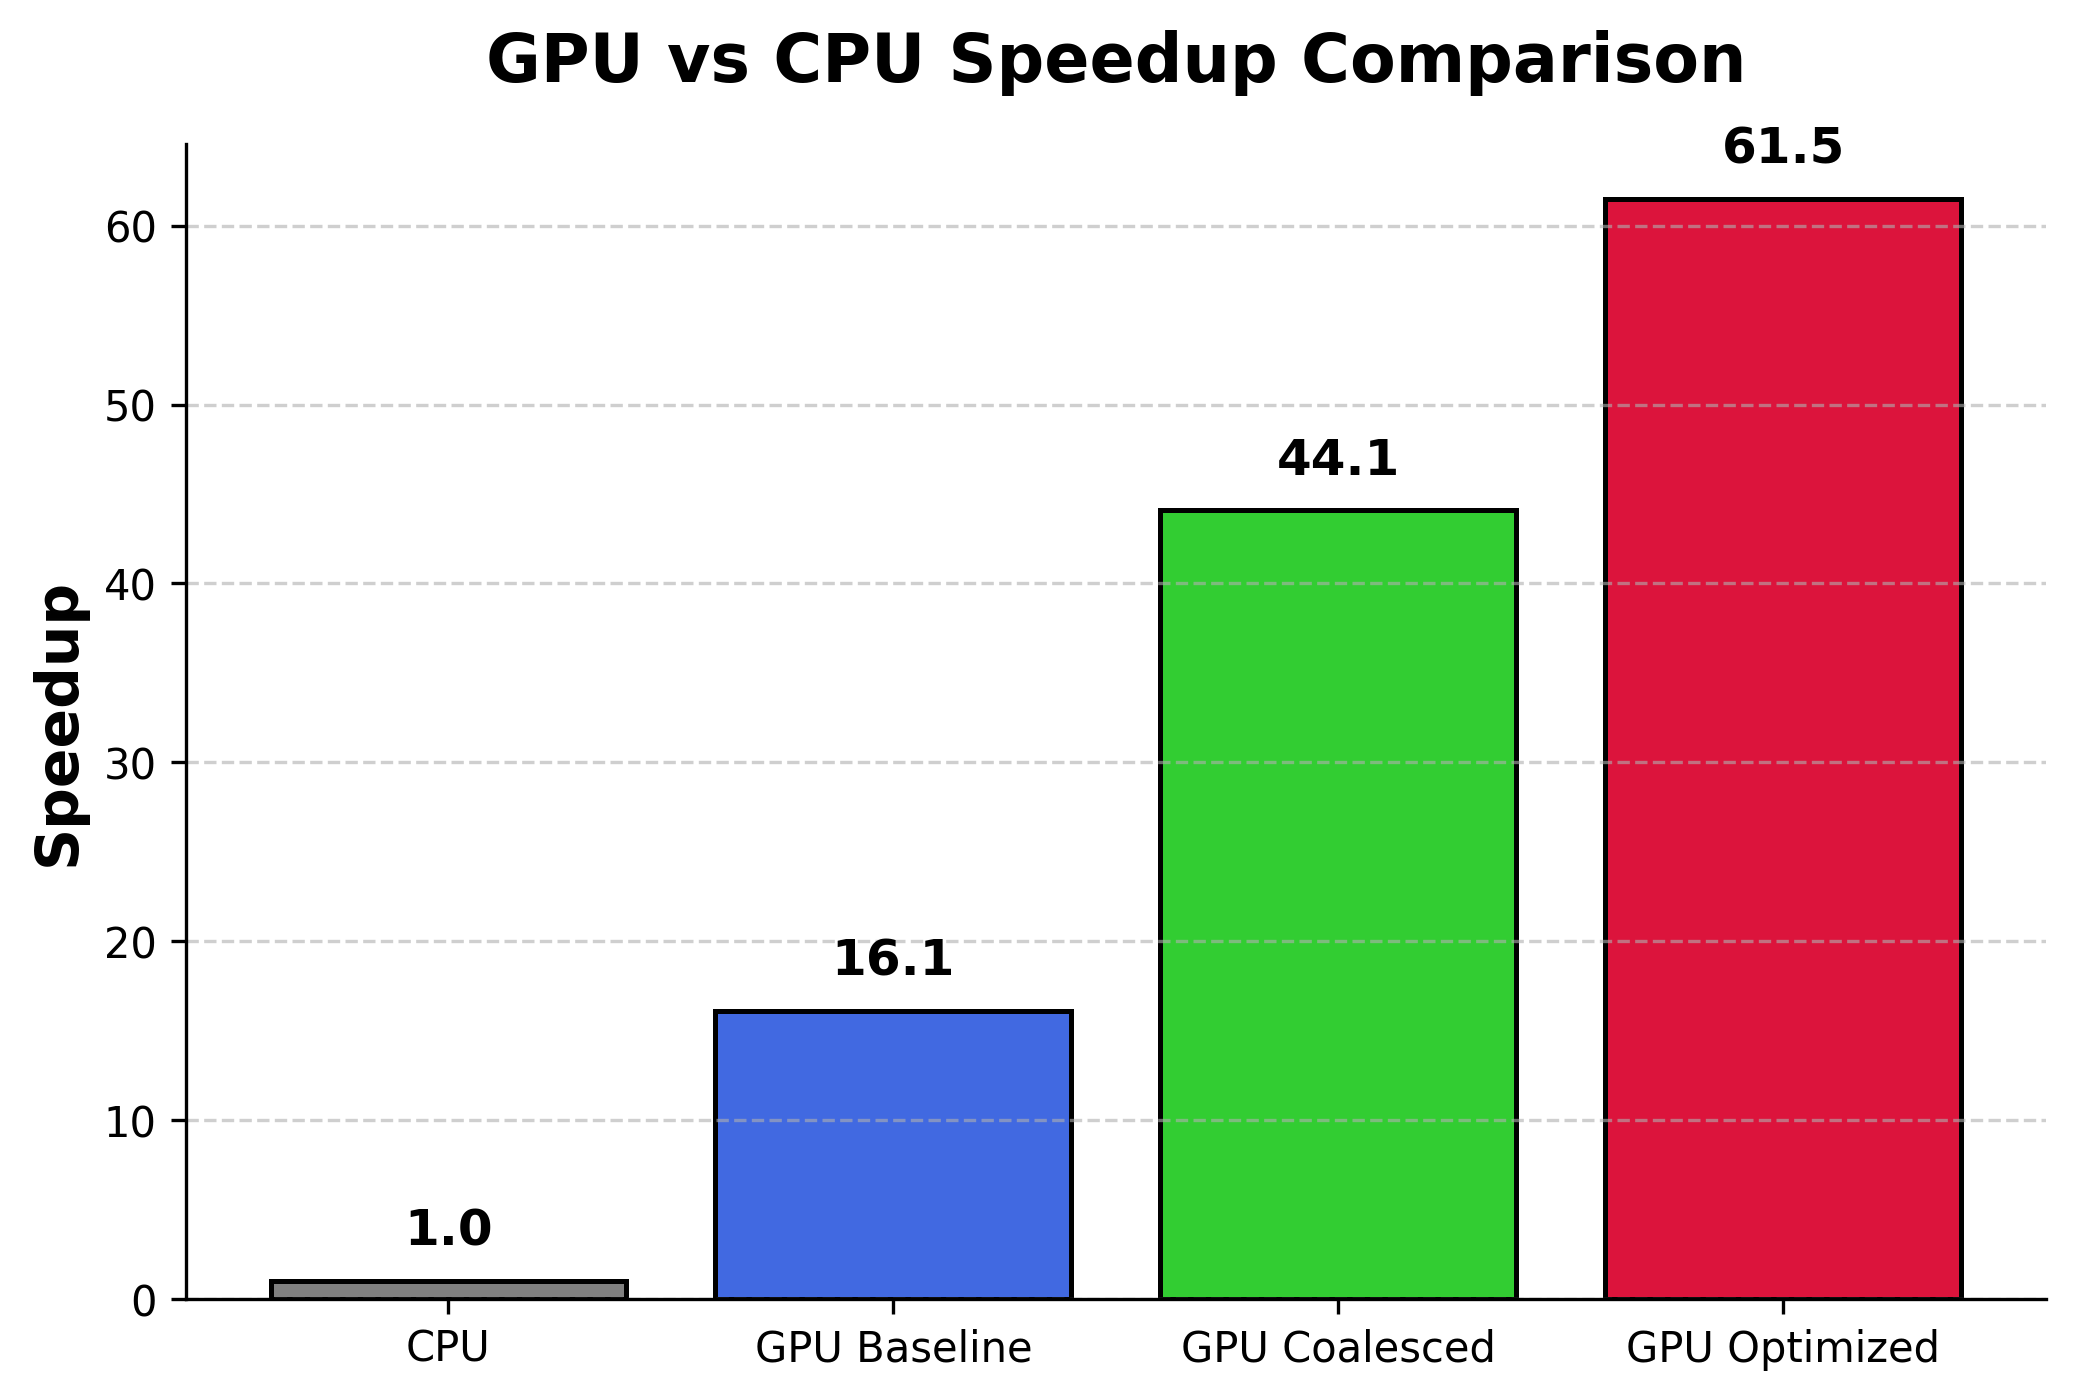
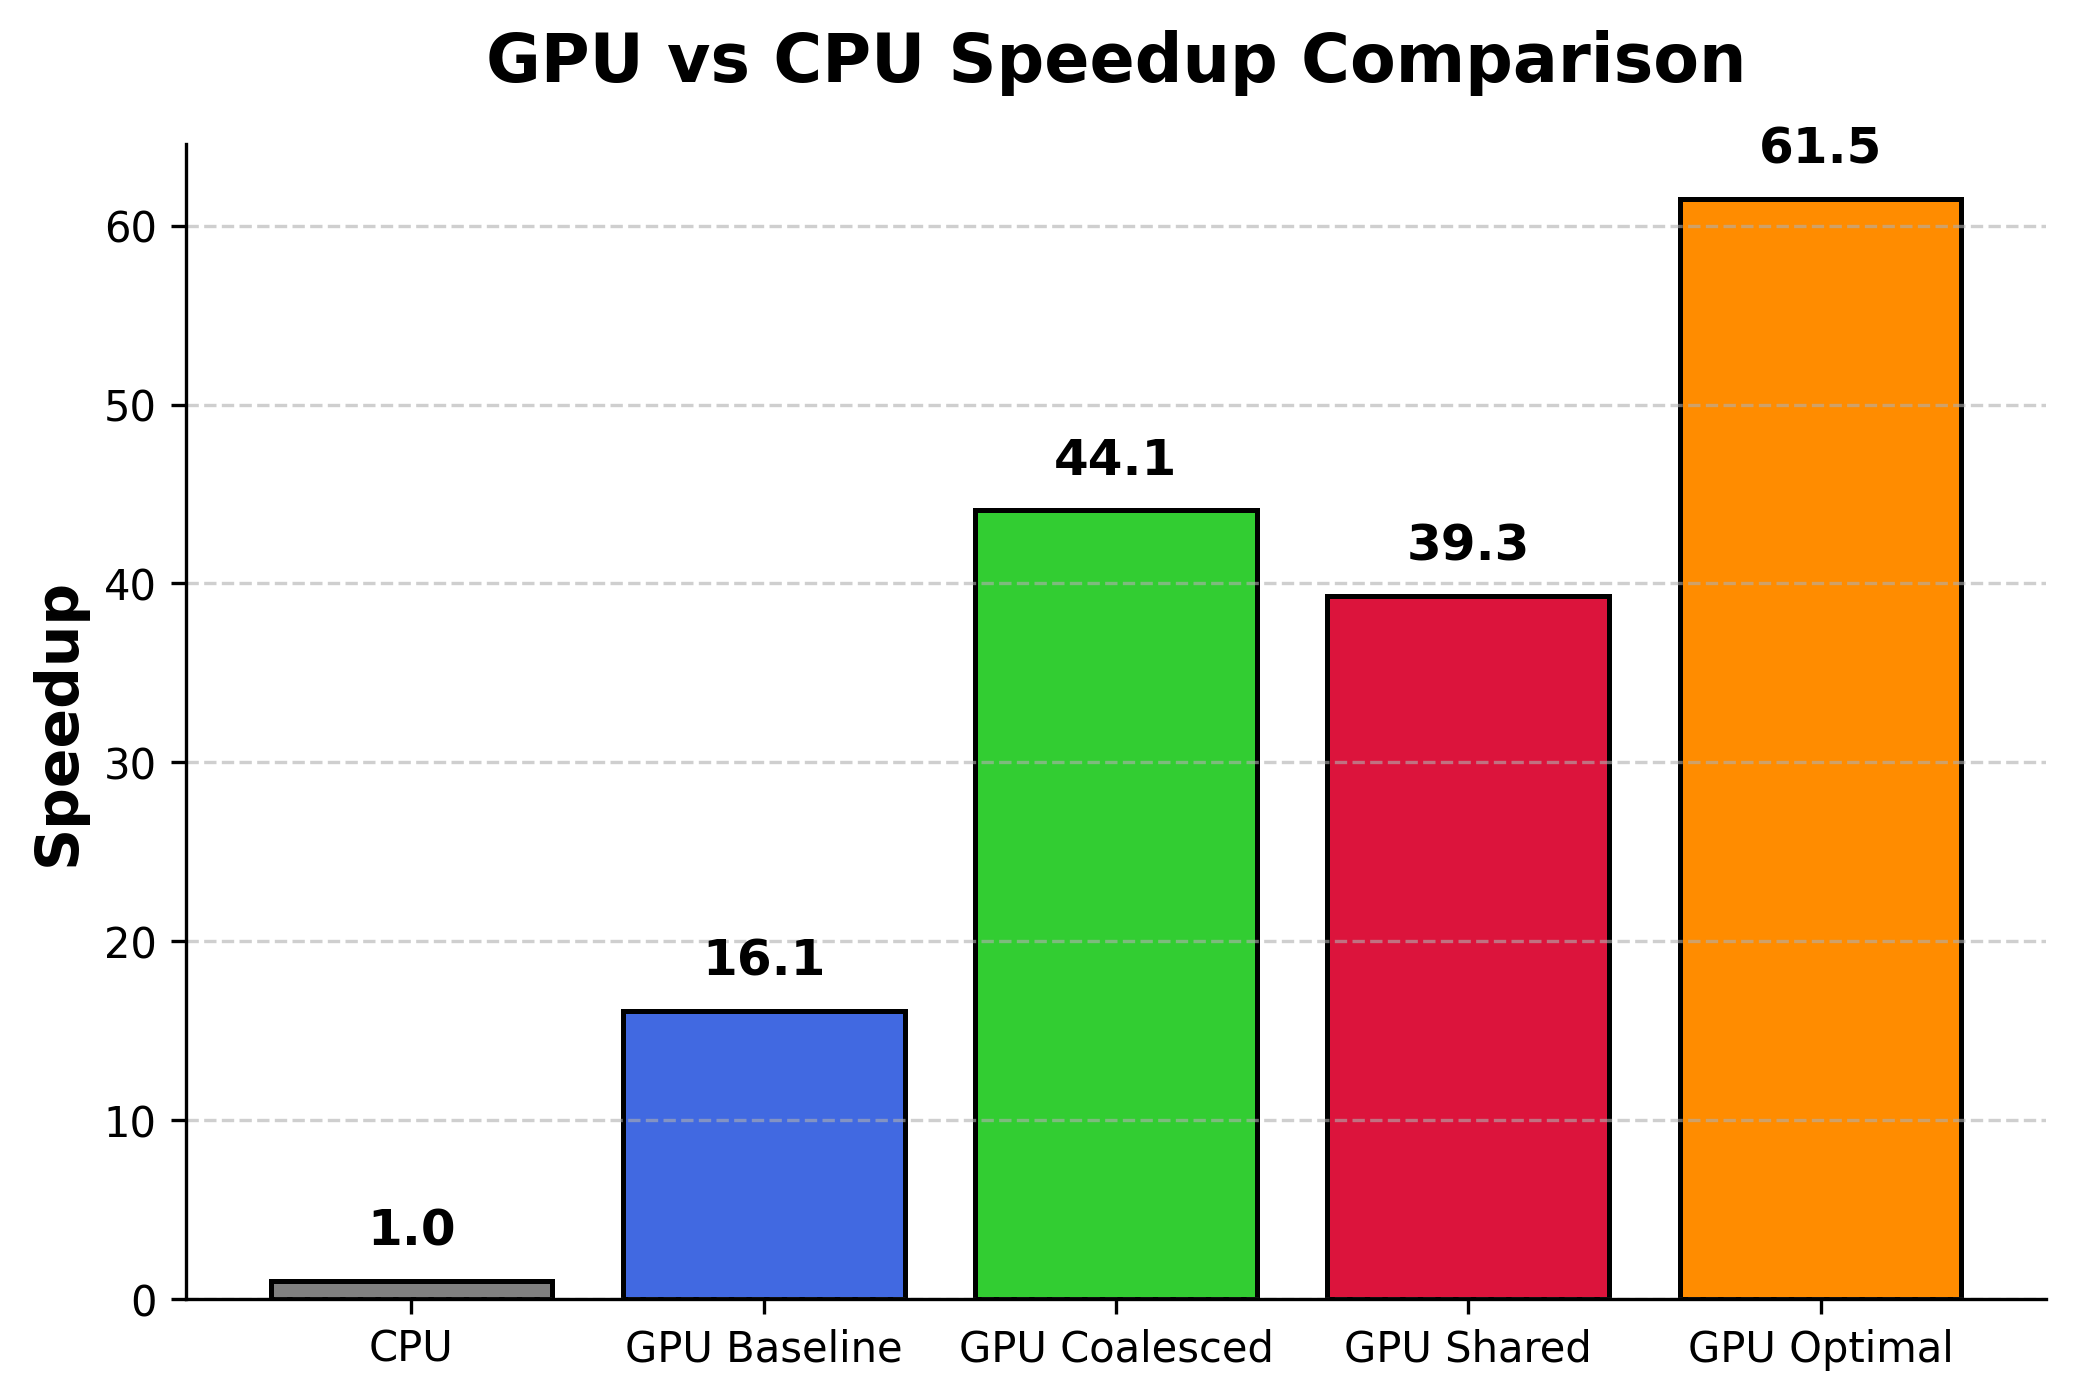
add GPU shared and update readme, GPU baseline, and GPU coalesced

diff --git a/project/src/plot.py b/project/src/plot.py
@@ -1,0 +1,30 @@
+import matplotlib.pyplot as plt
+
+# Sample data: Execution times (speedup over CPU)
+labels = ['CPU', 'GPU Baseline', 'GPU Coalesced', 'GPU Shared', 'GPU Optimal']
+speedup = [1, 16.1, 44.1, 39.3, 61.5]
+colors = ['gray', 'royalblue', 'limegreen', 'crimson', 'darkorange']
+
+# Create figure and axes
+fig, ax = plt.subplots(figsize=(8, 5))
+
+# Create bar plot with rounded edges
+bars = ax.bar(labels, speedup, color=colors, edgecolor='black', linewidth=1.2)
+
+# Labels and title
+ax.set_ylabel('Speedup', fontsize=14, fontweight='bold')
+ax.set_title('GPU vs CPU Speedup Comparison', fontsize=16, fontweight='bold', pad=15)
+
+# Show values on top of bars
+for bar, v in zip(bars, speedup):
+    ax.text(bar.get_x() + bar.get_width() / 2, v + 2, f'{v:.1f}', ha='center', fontsize=12, fontweight='bold', color='black')
+
+# Add grid lines for better readability
+ax.yaxis.grid(True, linestyle='--', alpha=0.6)
+
+# Remove top and right spines for a cleaner look
+ax.spines['top'].set_visible(False)
+ax.spines['right'].set_visible(False)
+
+# Save the figure
+plt.savefig('result.png', dpi=300, bbox_inches='tight')

diff --git a/project/readme.md b/project/readme.md
@@ -21,8 +21,8 @@ This project accelerates the solution by leveraging **GPU parallelism**, optimiz
 A standard DP table is computed bottom-up. GPU parallelization assigns table entries to threads while respecting data dependencies:
 
 - Baseline: Naively offload tasks to GPU without considering memory optimizations
-- Coalesced: Consider coalescing effect to reduce global memory transactions
-- Shared: Consider per-block shared memory usage for faster memory accesses
+- Coalesced: Consider coalescing effect to reduce global memory transactions (super effective!!)
+- Shared: Consider potential per-block shared memory usage for faster memory accesses
 - Optimized versions: Minimize unnecessary memory accesses to further improve performance
 
 ## Results
